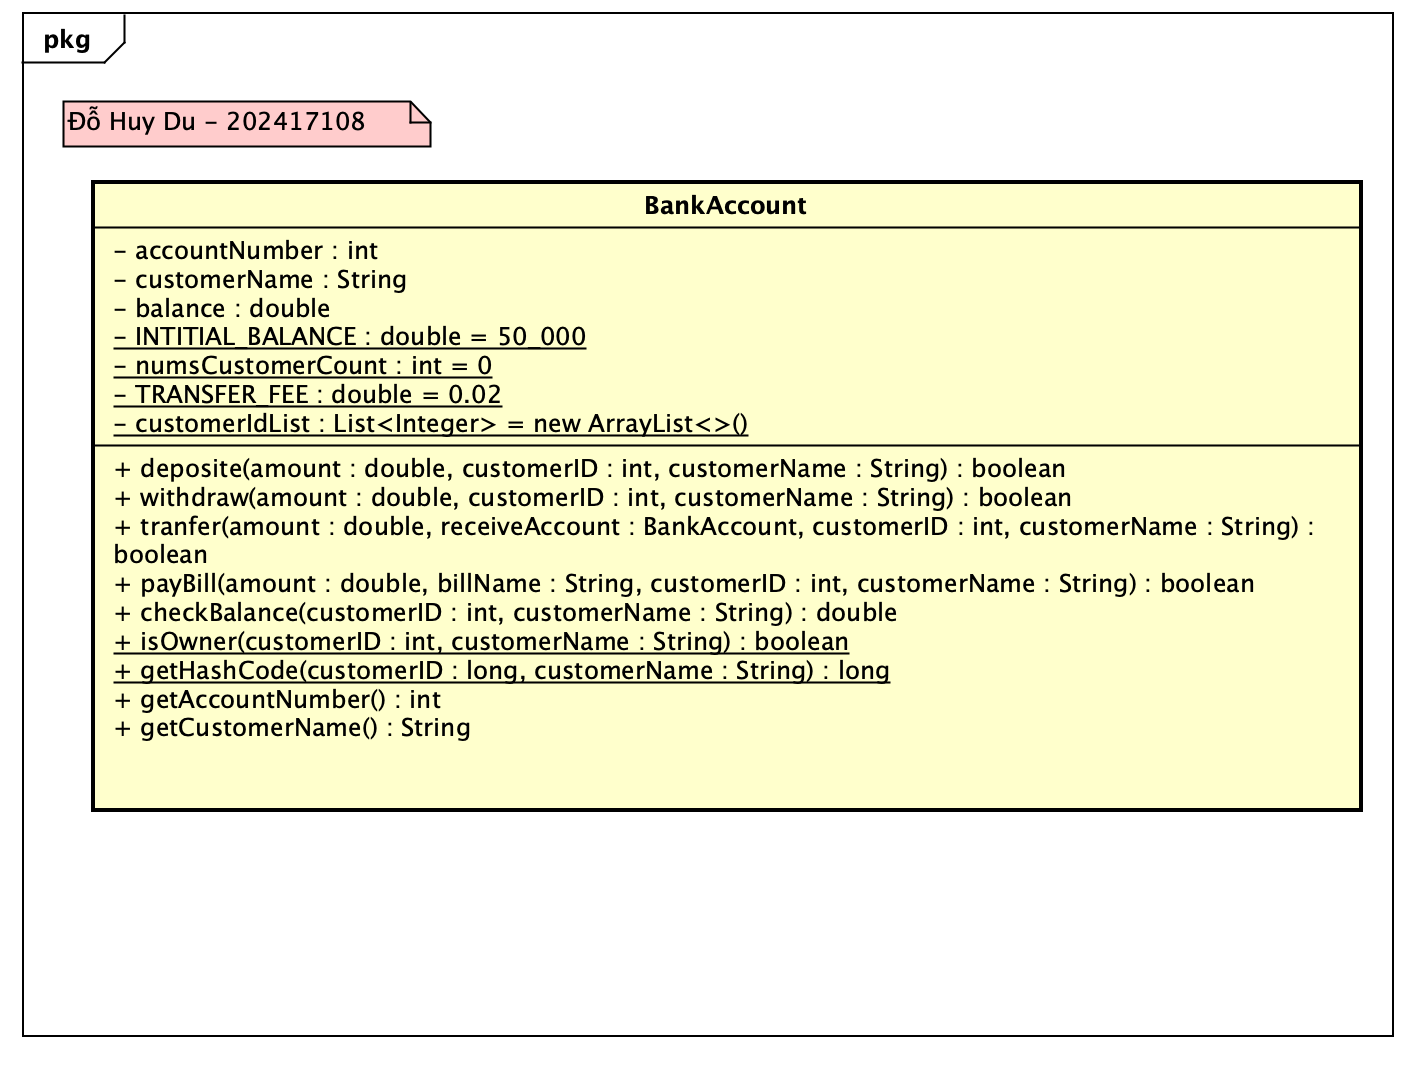
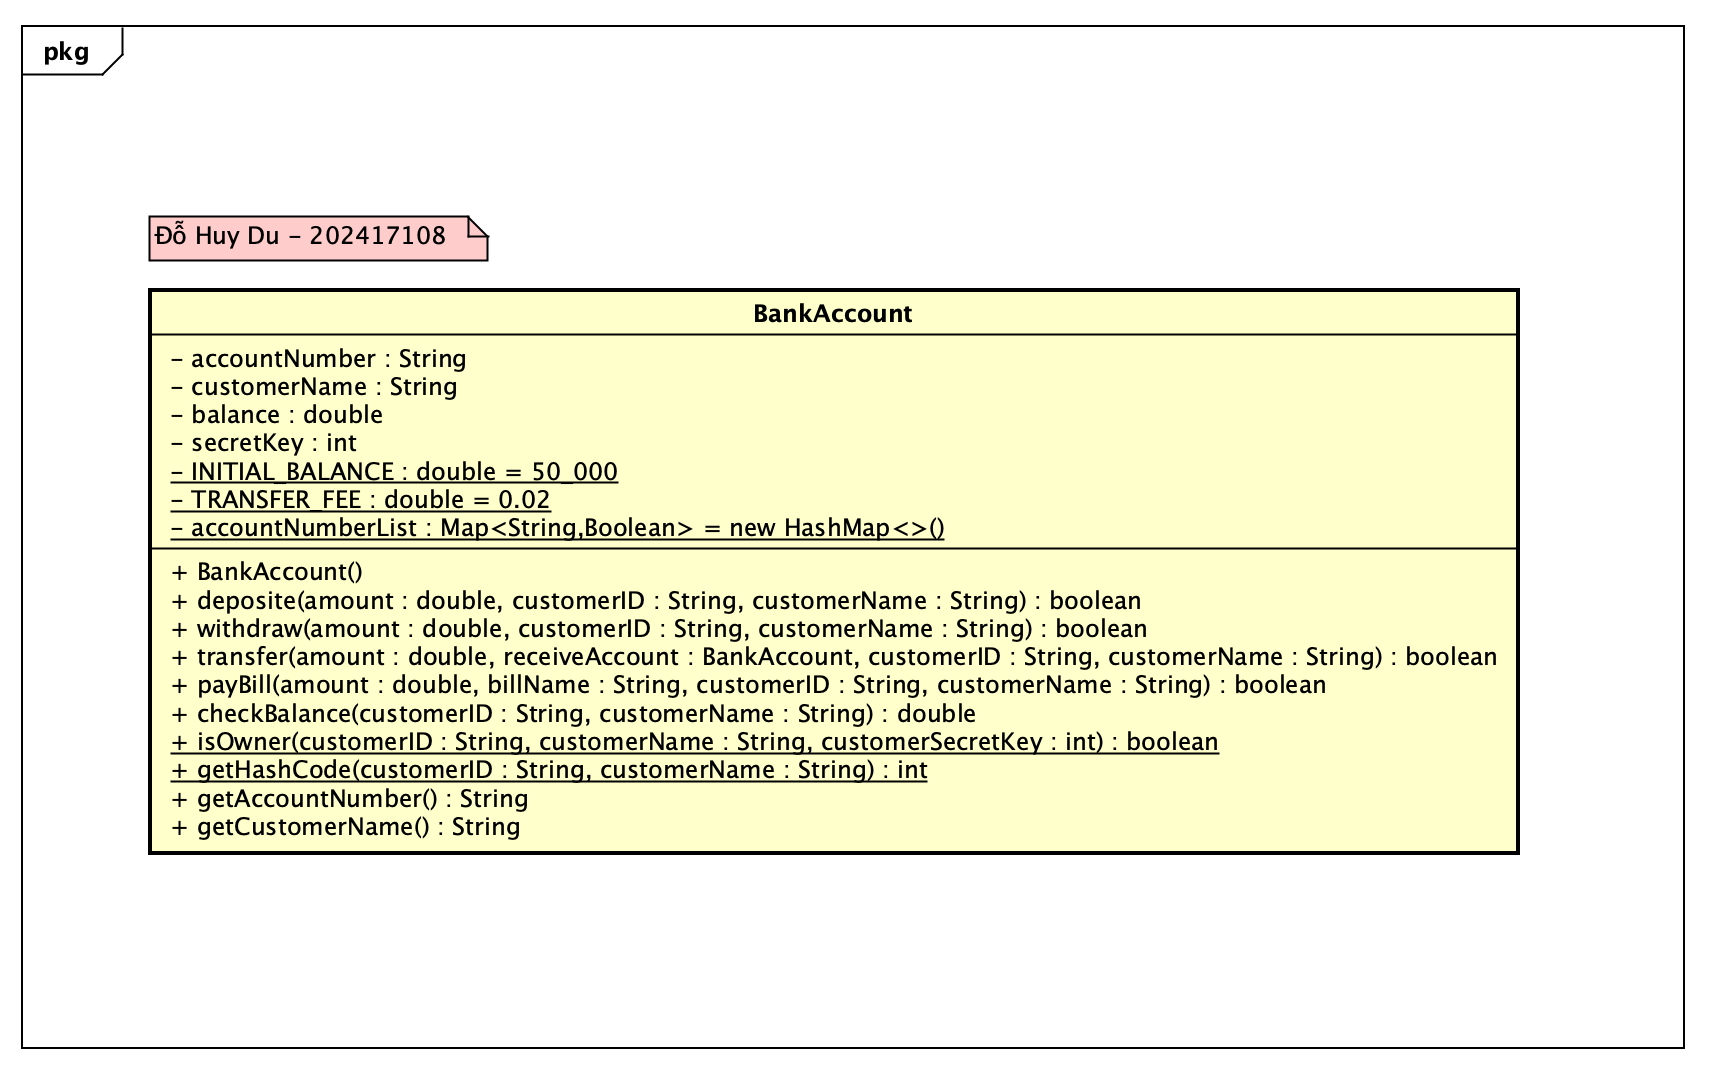
Fix: Switch account number to String; add secretKey. Change some methos's signature and constructor logic. Fix the design syncs to the codebase
Since i have misunderstood the creating bank account process's rule, i have to add accountNumber : String, secretKey : int to class BankAccount's attributes, and delete some unimportant class's attributes. Therefore, i have to change some method signature. In general, all method keep the same logic, some of them are changed at arguments. Sorry for suddenly changing lot of things. I have to do that because the moment when i checked and realized that i did wrong the homework, was 4 hours before the first deadline.

Changed region(s): [[0.0312, 0.0915, 0.966, 0.793], [0.0, 0.0, 0.9972, 0.0915], [0.0, 0.9455, 0.9972, 0.976]]

diff --git a/Homework04/src/BankAccount.java b/Homework04/src/BankAccount.java
@@ -1,43 +1,54 @@
 import java.util.Scanner;
-import java.util.List;
-import java.util.ArrayList;
-import java.lang.Math;
+import java.util.Map;
+import java.util.HashMap;
+
 public class BankAccount {
-    private int accountNumber;
+    private String accountNumber;
     private String customerName;
     private double balance;
+    private final int secretKey;
     private static final double INITIAL_BALANCE = 50_000;
-    private static int numsCustomerCount = 0;
     private static final double TRANSFER_FEE = 0.02;
-    private static final List<Integer> customerIdList = new ArrayList<>();
+    private static final Map<String, Boolean> accountNumberList = new HashMap<>();
 
     public BankAccount() {
         this.balance = BankAccount.INITIAL_BALANCE;
         Scanner sc = new Scanner(System.in);
-        System.out.print("Enter your full name : ");
-        this.customerName = sc.nextLine();
-        this.accountNumber = BankAccount.numsCustomerCount++;
-        BankAccount.customerIdList.add(getHashCode(this.accountNumber, this.customerName));
+        int count = 0;
+        do {
+            if (count != 0) System.out.println("Not a valid name");
+            System.out.print("Enter your full name : ");
+            this.customerName = sc.nextLine();
+            count++;
+        } while(this.customerName.trim().isEmpty());
+        count = 0;
+        do {
+            if (count != 0) System.out.println("Not a valid account number");
+            System.out.print("Enter your account number (String of 8 numbers) : ");
+            this.accountNumber = sc.nextLine();
+            count++;
+        } while (accountNumberList.containsKey(this.accountNumber) || this.accountNumber.trim().isEmpty() || !this.accountNumber.matches("\\d{8}") );
+        count = 0;
+        accountNumberList.put(accountNumber, true);
+        do {
+            if (count != 0) System.out.println("Not a valid balance");
+            System.out.print("Enter your balance : ");
+            this.balance = sc.nextDouble();
+            count++;
+        }  while (this.balance < BankAccount.INITIAL_BALANCE);
+        this.secretKey = getHashCode(this.accountNumber, this.customerName);
         System.out.println("Done!");
     }
 
-    public BankAccount(String customerName) {
-        this.balance = BankAccount.INITIAL_BALANCE;
-        this.accountNumber = BankAccount.numsCustomerCount++;
-        this.customerName = customerName;
-        BankAccount.customerIdList.add(getHashCode(this.accountNumber, this.customerName));
-        System.out.println("Done!");
-    }
-
-    public boolean deposite(double amount, int customerID, String customerName) {
-        if (!isOwner(customerID, customerName)) {
+    public boolean deposite(double amount, String customerID, String customerName) {
+        if (!isOwner(customerID, customerName, this.secretKey)) {
             return false;
         }
         else if (amount <= 0) {
             System.out.println("Invalid amount");
             return false;
         }
-        else if (!this.customerName.equals(customerName) || this.accountNumber != customerID) {
+        else if (!this.customerName.equals(customerName) || !this.accountNumber.equals(customerID)) {
             System.out.println("Invalid user");
             return false;
         }
@@ -46,8 +57,8 @@ public class BankAccount {
         return true;
     }
 
-    public boolean withdraw(double amount, int customerID, String customerName) {
-        if (!isOwner(customerID, customerName)) {
+    public boolean withdraw(double amount, String customerID, String customerName) {
+        if (!isOwner(customerID, customerName, this.secretKey)) {
             return false;
         }
         else if (amount <= 0) {
@@ -58,7 +69,7 @@ public class BankAccount {
             System.out.println("Insufficient balance");
             return false;
         }
-        else if (!this.customerName.equals(customerName) || this.accountNumber != customerID) {
+        else if (!this.customerName.equals(customerName) || !this.accountNumber.equals(customerID)) {
             System.out.println("Invalid user");
             return false;
         }
@@ -68,15 +79,15 @@ public class BankAccount {
         return true;
     }
 
-    public boolean transfer(double amount, BankAccount receiveAccount, int customerID, String customerName) {
-        if (!isOwner(customerID, customerName)) {
+    public boolean transfer(double amount, BankAccount receiveAccount, String customerID, String customerName) {
+        if (!isOwner(customerID, customerName, this.secretKey)) {
             return false;
         }
         else if (amount <= 0) {
             System.out.println("Invalid amount");
             return false;
         }
-        else if (!isOwner(receiveAccount.accountNumber, receiveAccount.customerName)) {
+        else if (!isOwner(receiveAccount.accountNumber, receiveAccount.customerName, receiveAccount.secretKey)) {
             System.out.println("Invalid receiver");
             return false;
         }
@@ -91,7 +102,7 @@ public class BankAccount {
         return true;
     }
 
-    public boolean payBill(double amount, String billName, int customerID, String customerName) {
+    public boolean payBill(double amount, String billName, String customerID, String customerName) {
         if (billName == null) {
             System.out.println("Invalid bill");
             return false;
@@ -100,7 +111,7 @@ public class BankAccount {
             System.out.println("Invalid amount");
             return false;
         }
-        else if (!isOwner(customerID, customerName)) {
+        else if (!isOwner(customerID, customerName, this.secretKey)) {
             return false;
         }
         else if (this.balance - amount < BankAccount.INITIAL_BALANCE) {
@@ -113,39 +124,35 @@ public class BankAccount {
         return true;
     }
 
-    public double checkBalance(int customerID, String customerName) {
-        if (!isOwner(customerID, customerName)) {
+    public double checkBalance(String customerID, String customerName) {
+        if (!isOwner(customerID, customerName, this.secretKey)) {
             return -1D;
         }
-
         return this.balance;
     }
 
-    public static boolean isOwner(int customerID, String customerName) {
-        if (customerID >= BankAccount.numsCustomerCount) {
-            System.out.println("Invalid user");
-            return false;
-        }
-        else if (BankAccount.customerIdList.get(customerID) != getHashCode(customerID, customerName)) {
+    public static boolean isOwner(String customerID, String customerName, int customerSecretKey) {
+        if (customerSecretKey != BankAccount.getHashCode(customerID, customerName)) {
             System.out.println("Invalid user");
             return false;
         }
         return true;
     }
 
-    public static int getHashCode(int customerID, String customerName) {
+    public static int getHashCode(String customerID, String customerName) {
         final int p = 53, m = 1103;
         int hashValue = 0, p_pow = 1;
+        int customerIDInt = Integer.parseInt(customerID) % m;
 
         for (char c : customerName.toCharArray()) {
             hashValue = (hashValue + (c * (p_pow) % m) % m) % m;
             p_pow = (p_pow * p) % m;
         }
 
-        return (((hashValue % m) * p) % m * ((customerID + 1) % m)) % m;
+        return (((hashValue % m) * p) % m * ((customerIDInt + 1) % m)) % m;
     }
 
-    public int getAccountNumber() {
+    public String getAccountNumber() {
         return this.accountNumber;
     }
 

diff --git a/Homework04/src/Main.java b/Homework04/src/Main.java
@@ -1,10 +1,10 @@
 public class Main {
     public static void main(String[] args) {
         BankAccount user1 = new BankAccount();
-        BankAccount user2 = new BankAccount("usr2");
+        BankAccount user2 = new BankAccount();
 
-        int user1ID = user1.getAccountNumber();
-        int user2ID = user2.getAccountNumber();
+        String user1ID = user1.getAccountNumber();
+        String user2ID = user2.getAccountNumber();
         String user1CustomerName = user1.getCustomerName();
         String user2CustomerName = user2.getCustomerName();
 
